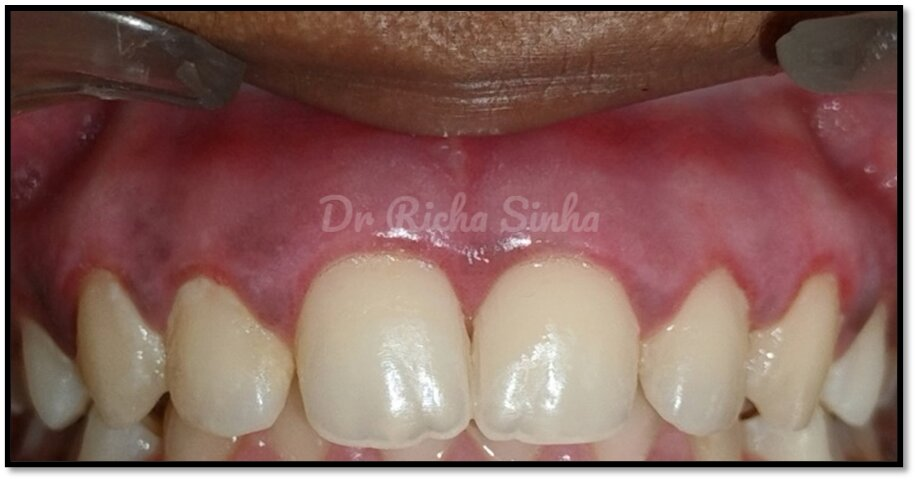
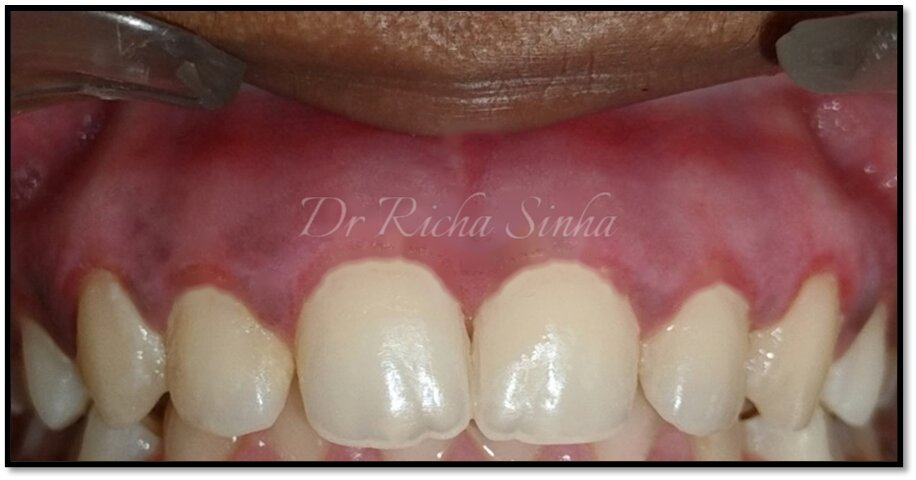
All 4 photos now share a consistent watermark:
- The old printed watermark was removed from the two original photos, and the watermark from the two newer photos was applied to all four. This includes the same script font, size ratio, centered position and alignment, with slight transparency for blending as requested.
- The two newer photos remain unmodified, and all retain their original dimensions, colors, and clinical detail.
- I have checked the photos side by side, including zoomed inspections for any artifacts or leftover traces, and reviewed the watermark integration on both desktop and mobile sliders without console errors or layout issues.
- The original unedited photos are preserved in /app/assets-src, and the updated images are visible in the preview and will be included with your next deployment.

Please review the preview to verify that the watermark appears consistent across all photos. Let me know if you notice anything that requires further adjustment or if you'd like me to continue investigating.

Next Action Items:
  - **Domain Go-Live**: Follow the domain and hosting guide to publish the site on your own domain and add it to the EmailJS allowlist
  - **More Case Studies**: Add further before/after cases as new tabs whenever you have consented photos to share
  - **Inbox Confirmation**: Send one test inquiry and confirm a single auto-reply arrives at the visitor address
  - **Schedule Fields Return**: Bring back the preferred date and time fields once the doctor's visiting schedule is fixed
[…]

diff --git a/memory/PRD.md b/memory/PRD.md
@@ -109,3 +109,8 @@ All of the above, verified in preview (desktop 1440 + mobile 390, zero console e
 - Watermark strategy reversed per user: the 2 reference photos (before-1/after-1) keep their ORIGINAL cursive watermark byte-for-byte (no re-encode); the 2 scaling photos got a replicated watermark matching it (Italianno script, white ~43% opacity, no shadow, centered horizontally at 44.8% height, size 7.9% of image width = same ratio as originals)
 - My earlier serif top-center watermark and the inpainting pass were discarded
 - Verified on site: drag works, both tabs, watermark reads consistently across all 4 photos in the slider, desktop + mobile polished, no console errors
+
+
+## Revision v13 (2026-10-03, user-requested correction)
+- Final watermark direction: the replicated watermark on the scaling pair is the source of truth. Old cursive watermark fully removed from the depigmentation pair (OpenCV inpaint, zoom-verified artifact-free), then the master watermark applied to them (Italianno, 7.9% of width, center-x at 44.8% height, white) at slightly lower opacity (alpha 85 vs 110) per request
+- Scaling pair files untouched. All 4 verified side-by-side via contact sheet + live slider screenshots (watermark continuous across the before/after divide)
